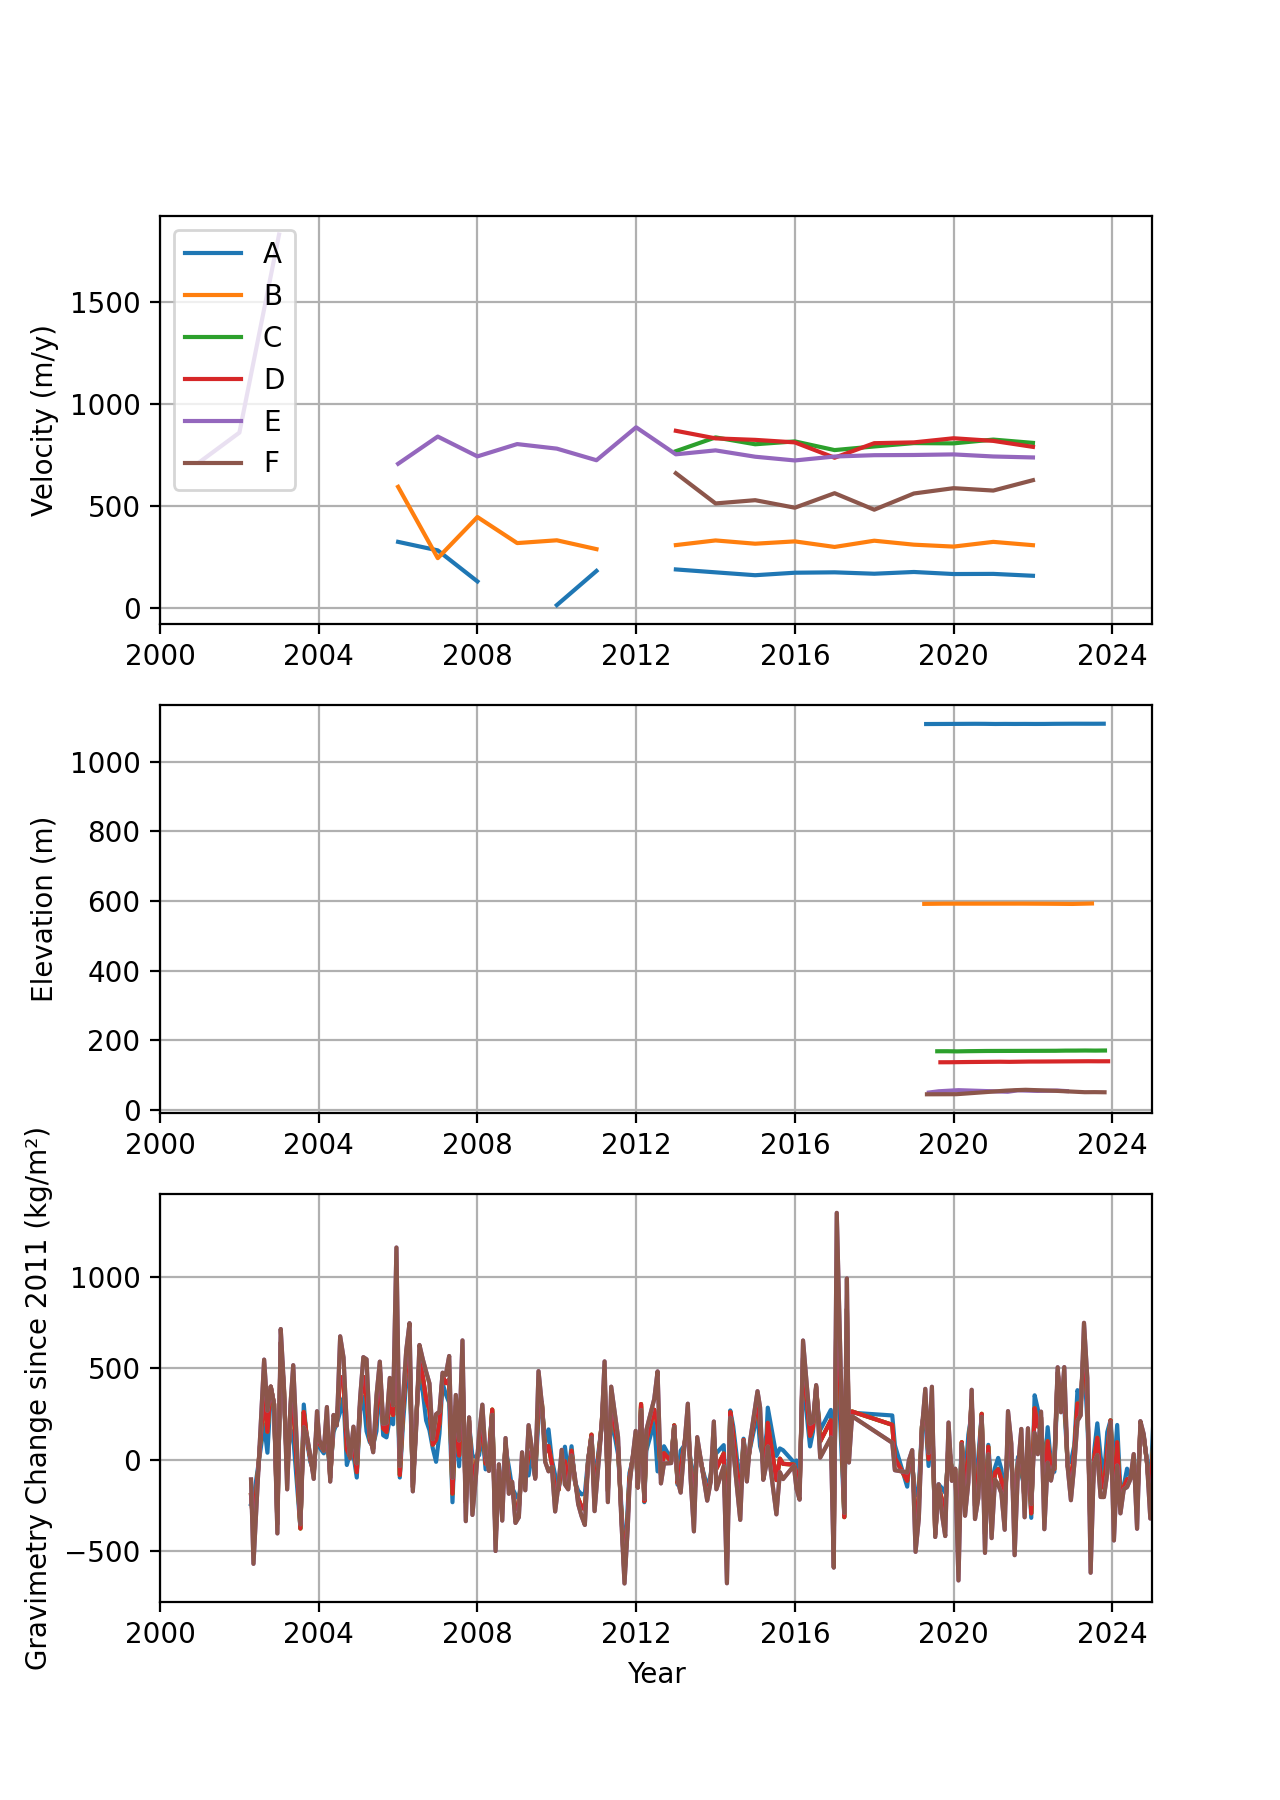
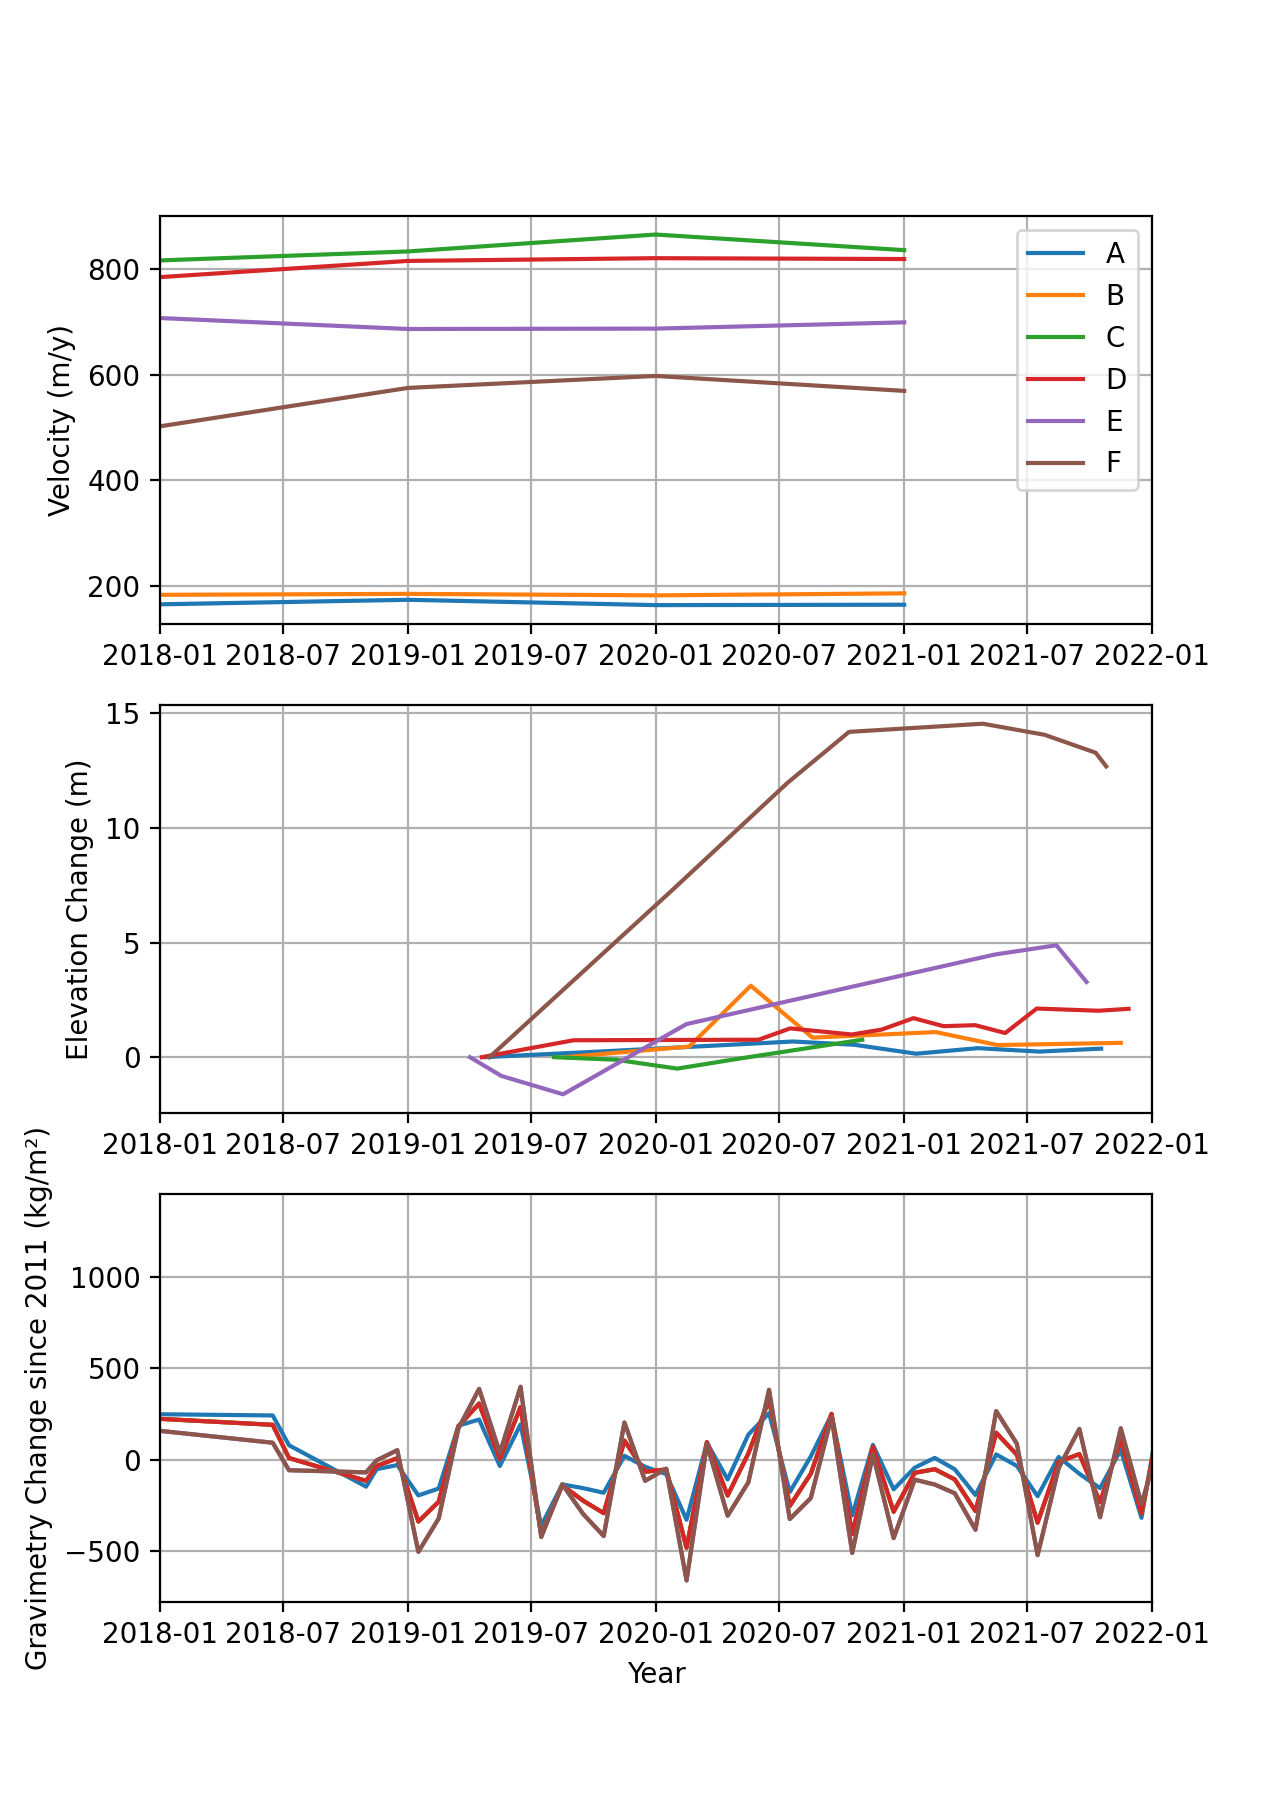
averaged area for elevation altimetry pointwise chart

diff --git a/src/pointwise.py b/src/pointwise.py
@@ -12,7 +12,7 @@ import numpy as np
 from plotting import Plotting
 
 class Pointwize():
-    def __init__(self, flags, xlim, ylim, points, data, change=False):
+    def __init__(self, flags, xlim, ylim, points, data, change=True):
         self.flags = flags
         self.yearStart = int(self.flags.YEARSTART)
         self.yearEnd = int(self.flags.YEAREND)
@@ -54,16 +54,31 @@ class Pointwize():
         p = self.points[index]
         df_ref = self.create_point_df([p])
 
-        df_ref = gpd.sjoin_nearest(df_ref, out)
-        data = df_ref.copy(deep=True)
+        #df_ref = gpd.sjoin_nearest(df_ref, out)
+        df_ref = gpd.sjoin(df_ref, out, distance=100,predicate='dwithin')
+        print(df_ref)
+
+        time = []
+        data = []
+
+        for x in df_ref['date'].unique():
+            time.append(x)
+            print(df_ref[df_ref['date'] == x][column_of_interest])
+            data.append(df_ref[df_ref['date'] == x][column_of_interest].mean())
+
+        time = np.array(time)
+        data = np.array(data)
+        print(data)
+        print(time)
+        if len(data) == 0:
+            return
 
         if self.change:
             print(self.change)
-            ref_time = df_ref['date'].min()
-            data[column_of_interest] = data[column_of_interest] - data[column_of_interest][df_ref['date'] == ref_time]
-
-        self.results[index] = pd.DataFrame({'time': df_ref['date'],
-                                        self.data: data[column_of_interest]})
+            ref_time = time.min()
+            data = data - data[time == ref_time]
+        self.results[index] = pd.DataFrame({'time': time,
+                                        self.data: data})
 
     
     def geotiff_geom_match(self, out, index, column_of_interest = 'band_data'):

diff --git a/src/plotting.py b/src/plotting.py
@@ -262,9 +262,9 @@ class Plotting:
                 for l in df['labels'].unique():
                     cur = df[df['labels'] == l]
                     print(cur)
-                    plt.scatter(cur['x'], cur['y'], label=l)
+                    plt.scatter(cur['x'], cur['y'], label=l, marker='o')
         else:
-            plt.scatter(df['x'], df['y'])
+            plt.scatter(df['x'], df['y'], marker='o')
 
 
         plt.legend()

diff --git a/src/utils.py b/src/utils.py
@@ -24,11 +24,11 @@ POINT_LISTS = {
 
     'Dibble' : [
         [-1753719.5,1833511.6],
-        [-1782934,1847702],
-        [-1804995,1854973],
-        [-1821190,1856704],
-        [-1837102,1857847],
-        [-1856232,1851560]
+        [-1776238,1844142],
+        [-1805005.87,1855416.14],
+        [-1819464.3,1856519.3],
+        [-1839610,1857715],
+        [-1855995,1851346]
         
     ],
 

diff --git a/src/main.py b/src/main.py
@@ -198,7 +198,7 @@ class main():
 
     
 
-    def get_points_timeline(self, data = ['vel', 'elev', 'grav'], change = False):
+    def get_points_timeline(self, data = ['vel', 'elev', 'grav'], change = True):
         p = Pointwize(self.flags, self.xlim, self.ylim, 
                         self.point_name, data = 'vel', change=change )
         
